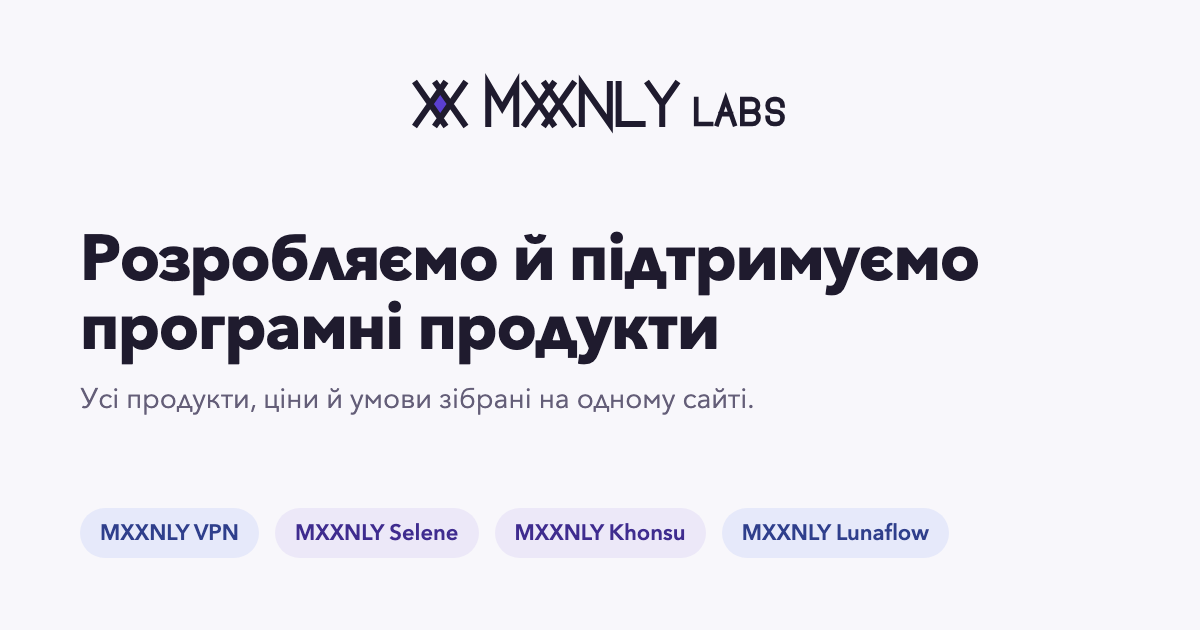
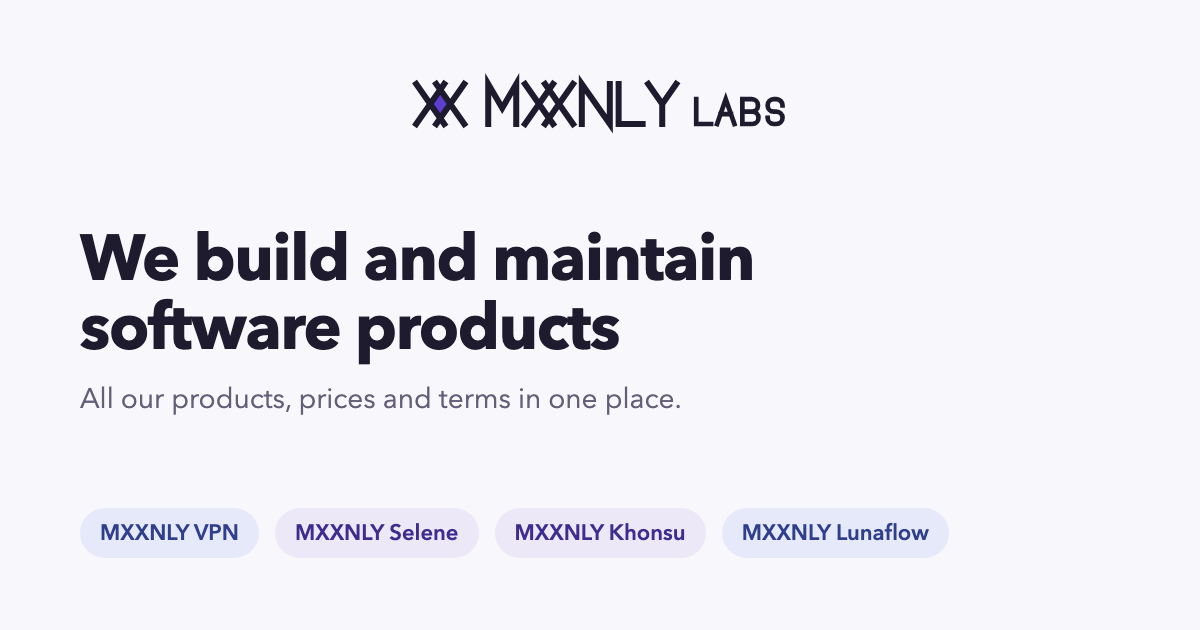
i18n: English is the primary language
/ redirects to /en (Ukrainian only when the browser prefers it), x-default hreflang
points to English, index.html meta and OG image are English, English SEO fields
seeded for all products. Ukrainian stays as the second language and the binding
version of the legal texts.

Changed region(s): [[0.0617, 0.3619, 0.8325, 0.573], [0.0617, 0.6032, 0.6167, 0.6635]]

diff --git a/frontend/src/lib/seo.ts b/frontend/src/lib/seo.ts
@@ -5,7 +5,7 @@ import { useEffect } from 'react'
 import { useSiteFlags } from '../api/queries'
 import { company, siteOrigin } from '../company'
 import { useI18n } from '../i18n/context'
-import { LANGUAGES, type Language } from '../i18n/strings'
+import { DEFAULT_LANGUAGE, LANGUAGES, type Language } from '../i18n/strings'
 
 export interface SeoProps {
   title: string
@@ -89,7 +89,7 @@ export function useSeo({ title, description, path, type = 'website', jsonLd, noi
     setMeta('property', 'og:locale', lang === 'uk' ? 'uk_UA' : 'en_US')
     setLink('canonical', localizedUrl(path, lang))
     for (const alternate of LANGUAGES) setLink('alternate', localizedUrl(path, alternate), alternate)
-    setLink('alternate', localizedUrl(path, 'uk'), 'x-default')
+    setLink('alternate', localizedUrl(path, DEFAULT_LANGUAGE), 'x-default')
     if (noindex) setMeta('name', 'robots', 'noindex, nofollow')
     else document.head.querySelector('meta[name="robots"]')?.remove()
 

diff --git a/frontend/src/components/layout/LanguageRoot.tsx b/frontend/src/components/layout/LanguageRoot.tsx
@@ -19,9 +19,8 @@ export function LanguageRoot() {
 }
 
 export function RootRedirect() {
-  // Visitors without a language prefix go to the default language; the Accept-Language hint is
-  // respected only for English to keep Ukrainian as the primary entry point.
-  const prefersEnglish = typeof navigator !== 'undefined' && (navigator.language || '').toLowerCase().startsWith('en')
-  return <Navigate to={prefersEnglish ? '/en' : `/${DEFAULT_LANGUAGE}`} replace />
+  // English is the primary entry point; browsers that prefer Ukrainian land on /uk.
+  const prefersUkrainian = typeof navigator !== 'undefined' && (navigator.language || '').toLowerCase().startsWith('uk')
+  return <Navigate to={prefersUkrainian ? '/uk' : `/${DEFAULT_LANGUAGE}`} replace />
 }
 

diff --git a/design-proposals/tools/brand-assets/og-image.html b/design-proposals/tools/brand-assets/og-image.html
@@ -10,6 +10,6 @@ p{font-size:28px;color:#645E78;margin:18px 0 0;max-width:860px;line-height:1.35}
 </style>
 <div class="wrap">
   <img src="file:///Users/mxxnly/Desktop/cv/design-proposals/logos/04-lattice-violet/logo-on-light.svg">
-  <div><h1>Розробляємо й підтримуємо програмні продукти</h1><p>Усі продукти, ціни й умови зібрані на одному сайті.</p></div>
+  <div><h1>We build and maintain software products</h1><p>All our products, prices and terms in one place.</p></div>
   <div class="bar"><span class="chip b">MXXNLY VPN</span><span class="chip">MXXNLY Selene</span><span class="chip">MXXNLY Khonsu</span><span class="chip b">MXXNLY Lunaflow</span></div>
 </div>

diff --git a/frontend/src/i18n/strings.ts b/frontend/src/i18n/strings.ts
@@ -1,6 +1,6 @@
 export type Language = 'uk' | 'en'
-export const LANGUAGES: Language[] = ['uk', 'en']
-export const DEFAULT_LANGUAGE: Language = 'uk'
+export const LANGUAGES: Language[] = ['en', 'uk']
+export const DEFAULT_LANGUAGE: Language = 'en'
 
 export function isLanguage(value: string | undefined): value is Language {
   return value === 'uk' || value === 'en'

diff --git a/backend/apps/catalog/management/commands/seed_demo.py b/backend/apps/catalog/management/commands/seed_demo.py
@@ -37,6 +37,8 @@ PRODUCTS = [
         "support_terms_uk": "Відповідь протягом 1 робочого дня через email або Telegram. Оновлення входять у тариф.",
         "support_terms_en": "Reply within 1 business day via email or Telegram. Updates are included in the plan.",
         "seo_title_uk": "MXXNLY VPN: шифроване з'єднання для команд",
+        "seo_title_en": "MXXNLY VPN: encrypted connection for teams",
+        "seo_description_en": "Encrypted connection on public networks for freelancers and small teams. Plans from 5 USD per month (example).",
         "seo_description_uk": "Шифроване з'єднання у публічних мережах для фрілансерів і невеликих команд. Плани від 5 USD на місяць (приклад).",
         "plans": [
             (
@@ -117,6 +119,8 @@ PRODUCTS = [
         "support_terms_uk": "Відповідь протягом 1 робочого дня. У бета-версії можливі зміни інтерфейсу; оновлення входять у тариф.",
         "support_terms_en": "Reply within 1 business day. Interface may change during beta; updates are included.",
         "seo_title_uk": "MXXNLY Selene: парсер паперових накладних",
+        "seo_title_en": "MXXNLY Selene: paper invoice parser",
+        "seo_description_en": "Recognition of paper invoices with reference-book validation. Plans from 49 USD per month (example).",
         "seo_description_uk": "Розпізнавання паперових накладних із перевіркою за довідниками. Тарифи від 49 USD на місяць (приклад).",
         "plans": [
             (
@@ -190,6 +194,8 @@ PRODUCTS = [
             "page after the announcement.\n\nLeave your contact through the form and we will let you know first."
         ),
         "seo_title_uk": "MXXNLY Khonsu: скоро",
+        "seo_title_en": "MXXNLY Khonsu: coming soon",
+        "seo_description_en": "A new MXXNLY Labs product in development. Details after the announcement.",
         "seo_description_uk": "Новий продукт MXXNLY Labs у розробці. Деталі після анонсу.",
         "plans": [],
         "links": [],
@@ -214,6 +220,8 @@ PRODUCTS = [
             "page after the announcement.\n\nLeave your contact through the form and we will let you know first."
         ),
         "seo_title_uk": "MXXNLY Lunaflow: скоро",
+        "seo_title_en": "MXXNLY Lunaflow: coming soon",
+        "seo_description_en": "A new MXXNLY Labs product in development. Details after the announcement.",
         "seo_description_uk": "Новий продукт MXXNLY Labs у розробці. Деталі після анонсу.",
         "plans": [],
         "links": [],

diff --git a/README.md b/README.md
@@ -159,8 +159,8 @@ make seed    # продукти (VPN, Selene, Khonsu, Lunaflow); ціни-при
 
 ## Сторінки й маршрути
 
-Усі сторінки мають мовний префікс: `/uk/...` (основна) і `/en/...`; `/` перенаправляє (`/en`, якщо браузер
-англомовний, інакше `/uk`). Старі шляхи без префікса отримують `/uk`.
+Усі сторінки мають мовний префікс: `/en/...` (основна) і `/uk/...`; `/` перенаправляє на `/en` (на `/uk`,
+якщо браузер віддає перевагу українській). Старі шляхи без префікса отримують `/en`.
 
 | Шлях | Сторінка |
 |---|---|
@@ -345,8 +345,8 @@ docker/, nginx/             образи, compose-оверлеї, шлюз (robo
 - **Selene** є робочою назвою парсера накладних (колишній Invoice); змінюється полем «Назва» в адмінці.
 - **Одна адмінка Unfold** замість окремої панелі: усе CRUD-керування продуктами й цінами там.
 - **Дані компанії у JSON**, а не в `.env`: їх читають і Python, і Vite, і CI; заглушки позначені явно.
-- **Мови через префікс URL**, українська основна; EN-тексти беруться з полів `_en`, порожні падають
-  до uk. Юридичні документи є обома мовами; англійська є перекладом, і в тексті зазначено, що
+- **Мови через префікс URL**, англійська основна (`x-default`), українська друга; EN-тексти беруться з
+  полів `_en`, порожні падають до uk. Юридичні документи є обома мовами; англійська є перекладом, і в тексті зазначено, що
   у разі розбіжностей чинна українська редакція.
 - **SPA збережено** (React + Vite), бо це корисна частина старого коду; «місячні» ефекти, Lenis, Motion
   і CV-сутності видалені заради швидкості й CWV.
